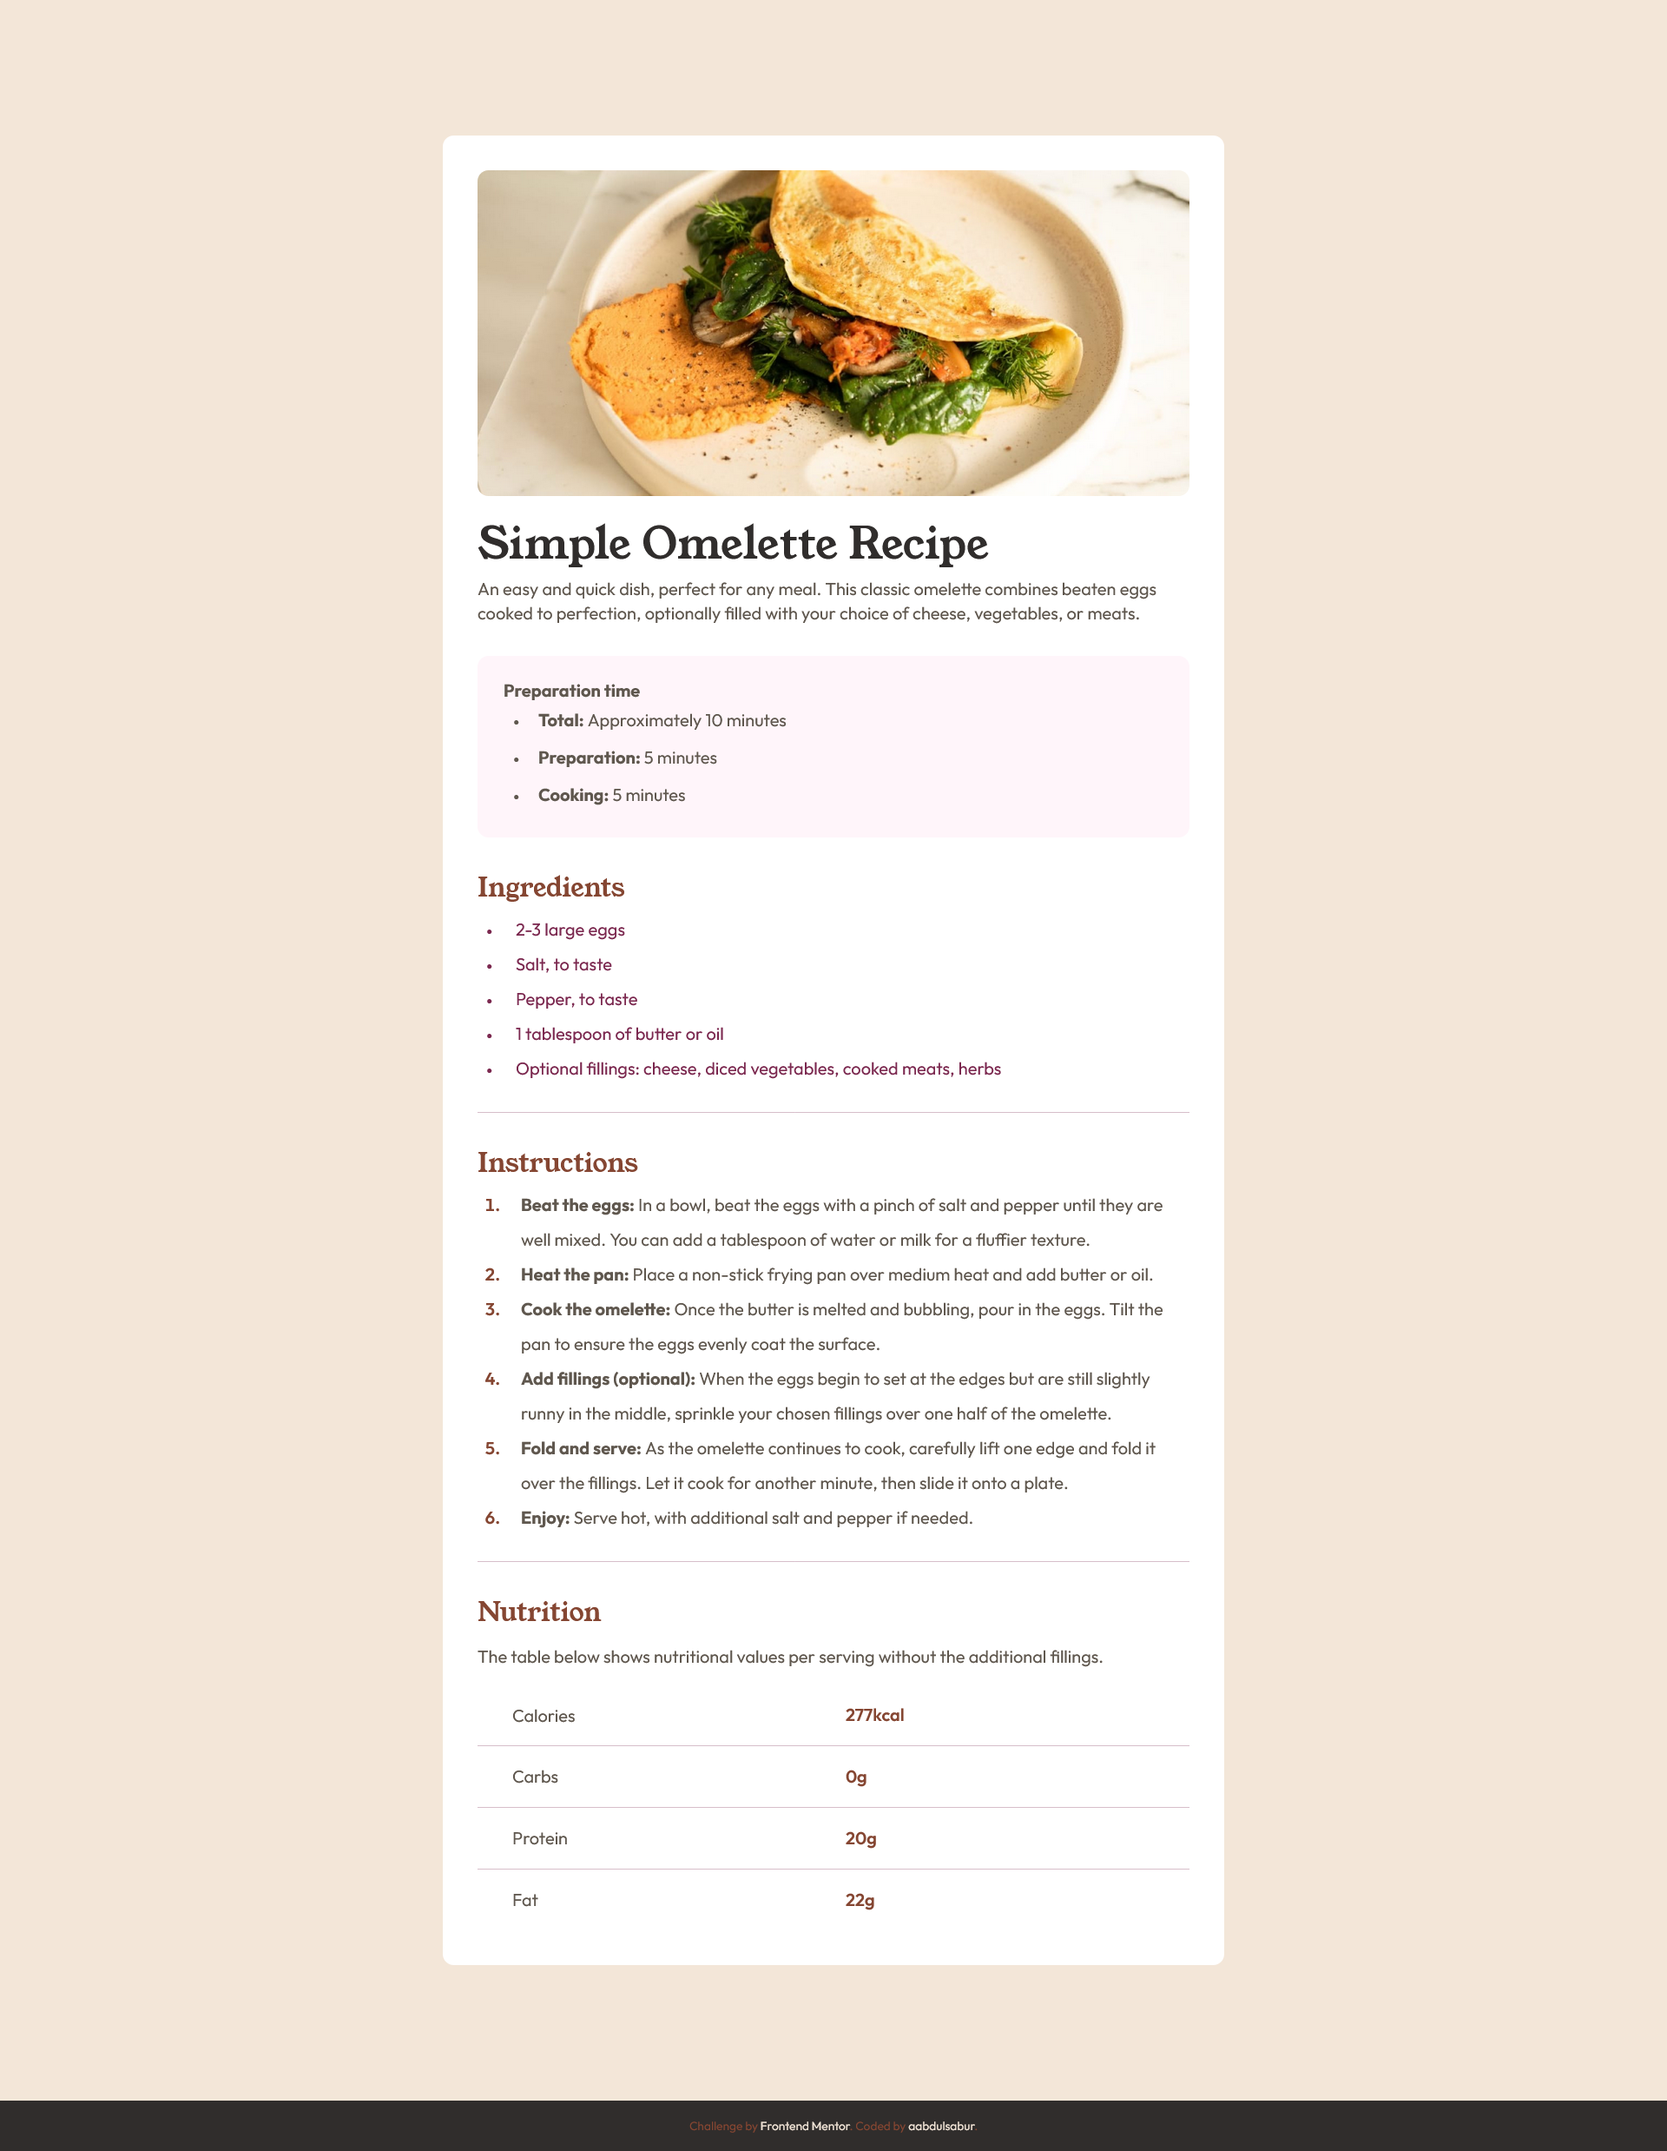
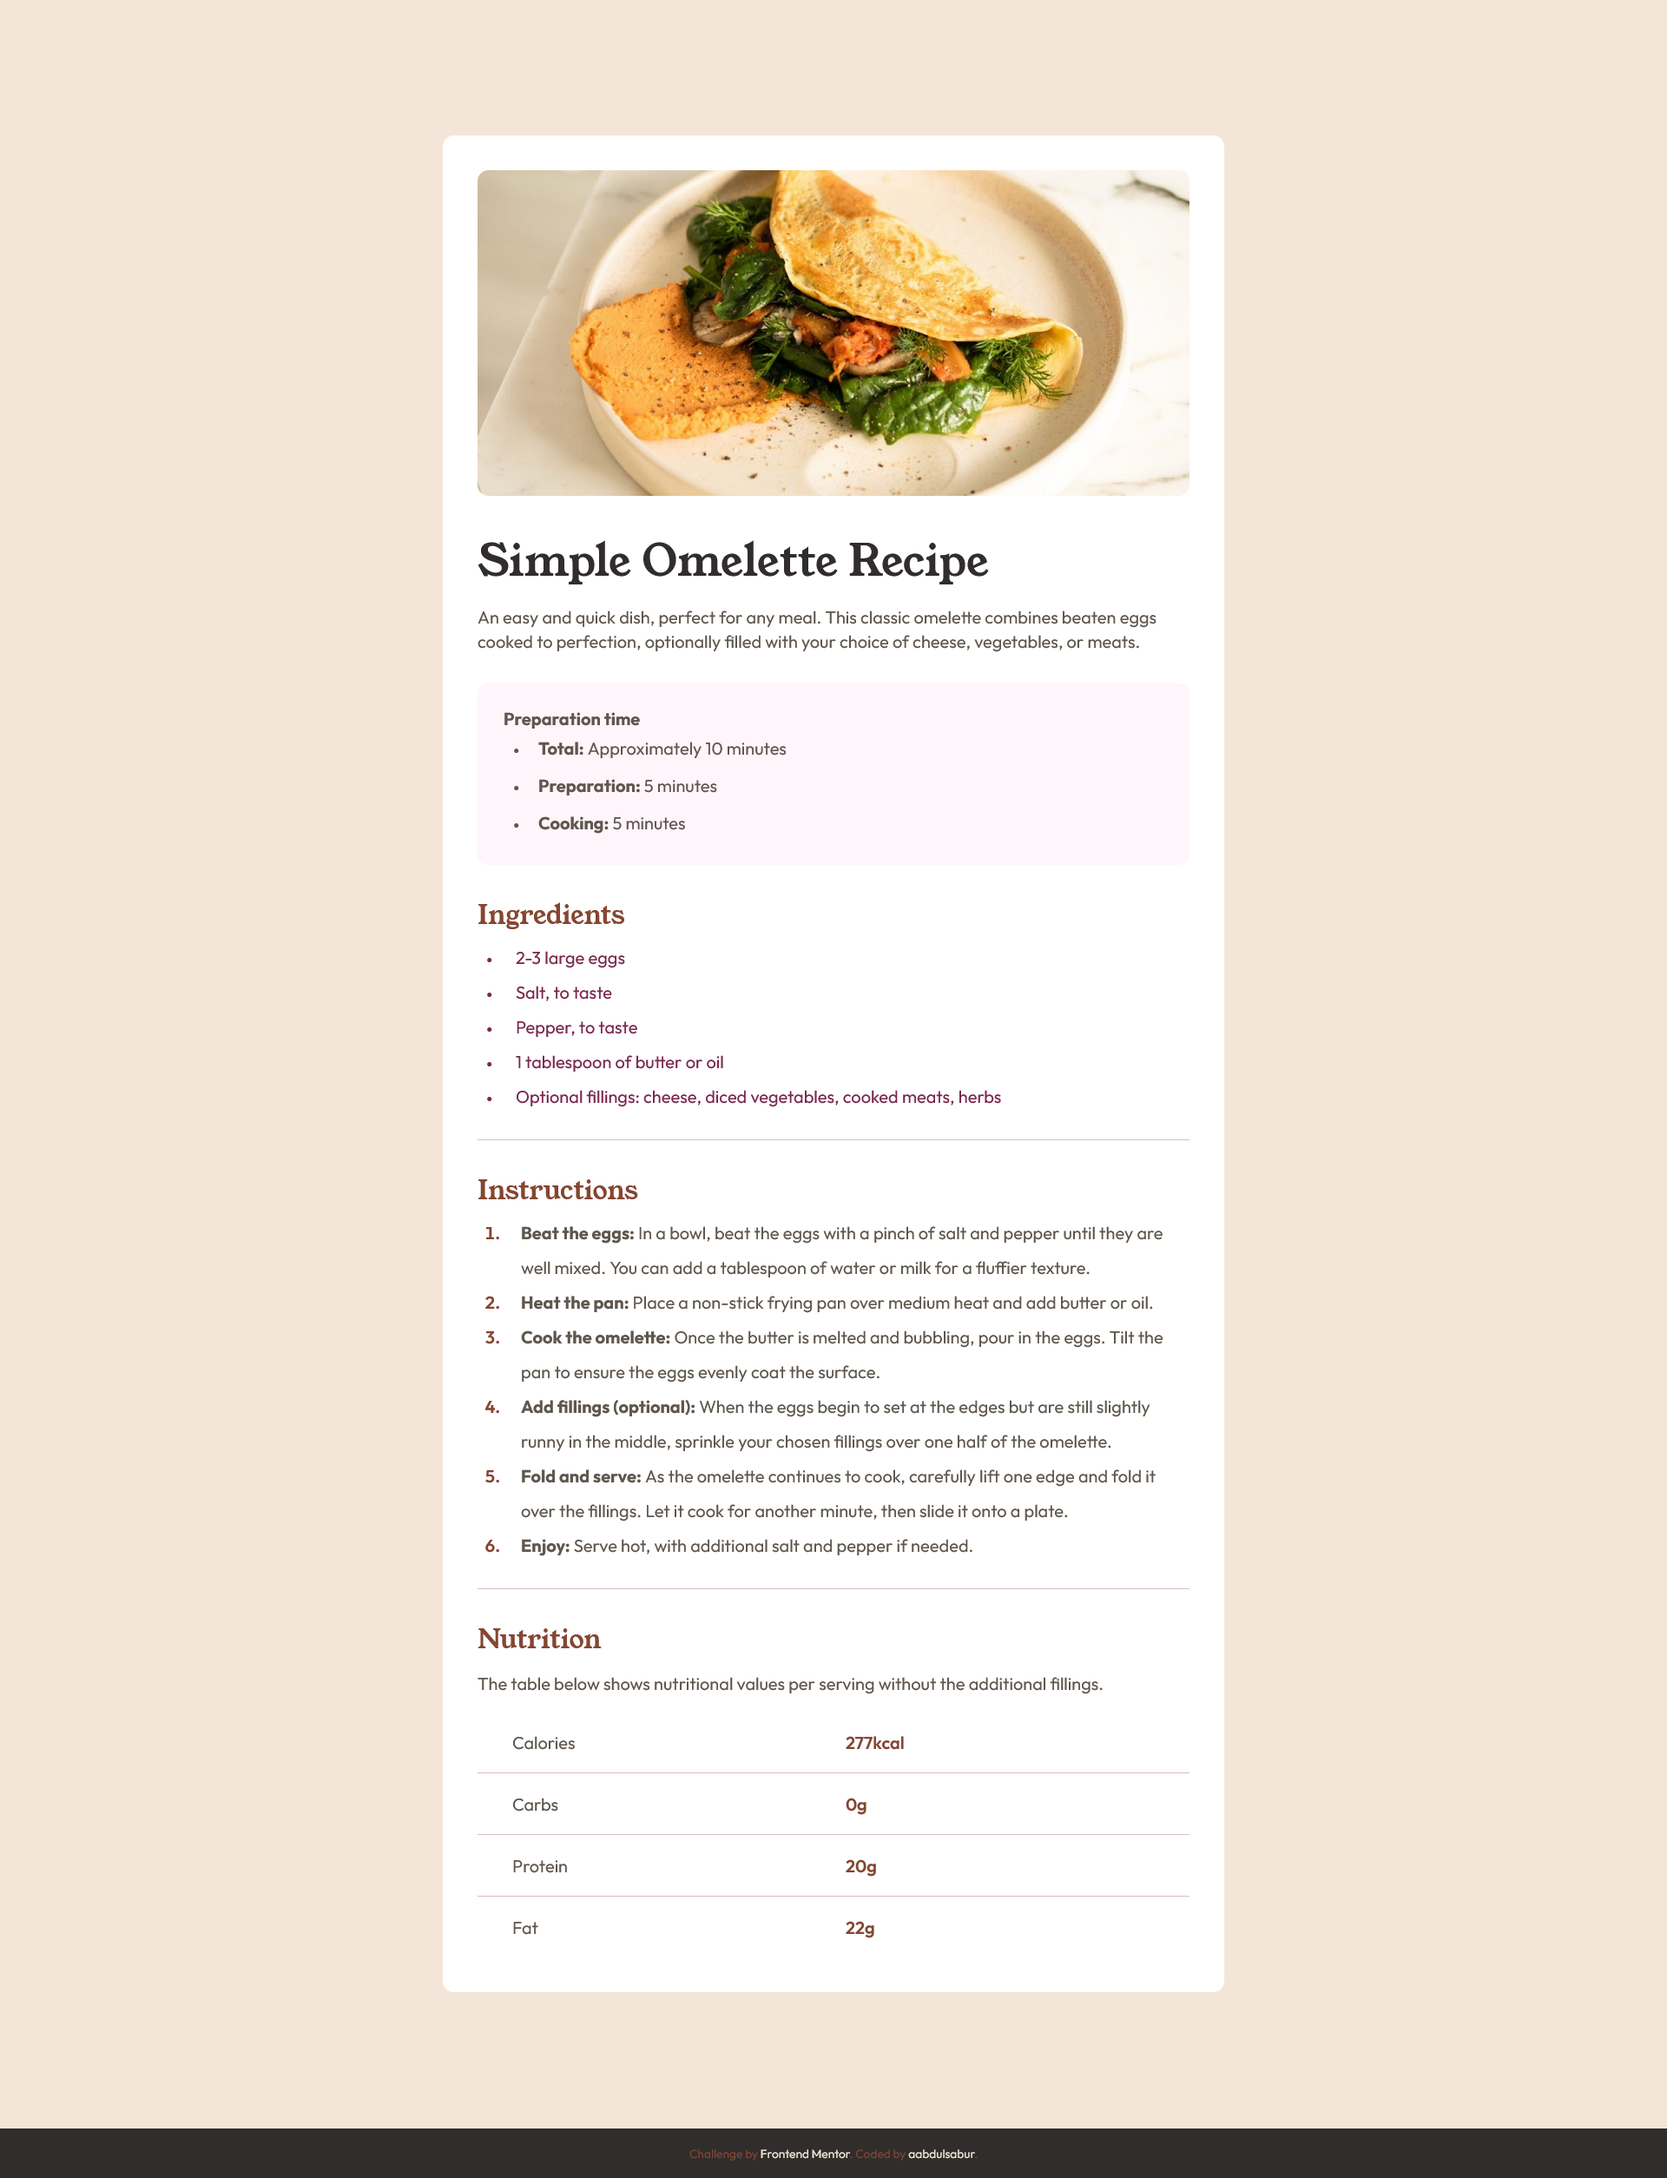
new screenshot

diff --git a/css/styles.css b/css/styles.css
@@ -54,12 +54,12 @@ h3 {
 .recipe-img {
   width: 100%;
   border-radius: 10px;
-  margin-bottom: 1rem;
+  margin-bottom: 2rem;
 }
 .recipe-title {
   font-size: 2.5rem;
   color: var(--Stone-900);
-  margin-bottom: 0.375rem;
+  margin-bottom: 1rem;
 }
 .recipe-info {
   color: var(--Stone-600);

diff --git a/README.md b/README.md
@@ -20,7 +20,7 @@ This is a solution to the [Recipe page challenge on Frontend Mentor](https://www
 
 ### Links
 
-- Solution URL: [solution URL](https://frontend-mentor-recipe-page-titi.netlify.app/)
+- Solution URL: [solution URL](https://github.com/aabdulsabur/Recipe-Page)
 - Live Site URL: [live site](https://frontend-mentor-recipe-page-titi.netlify.app/)
 
 ## My process
